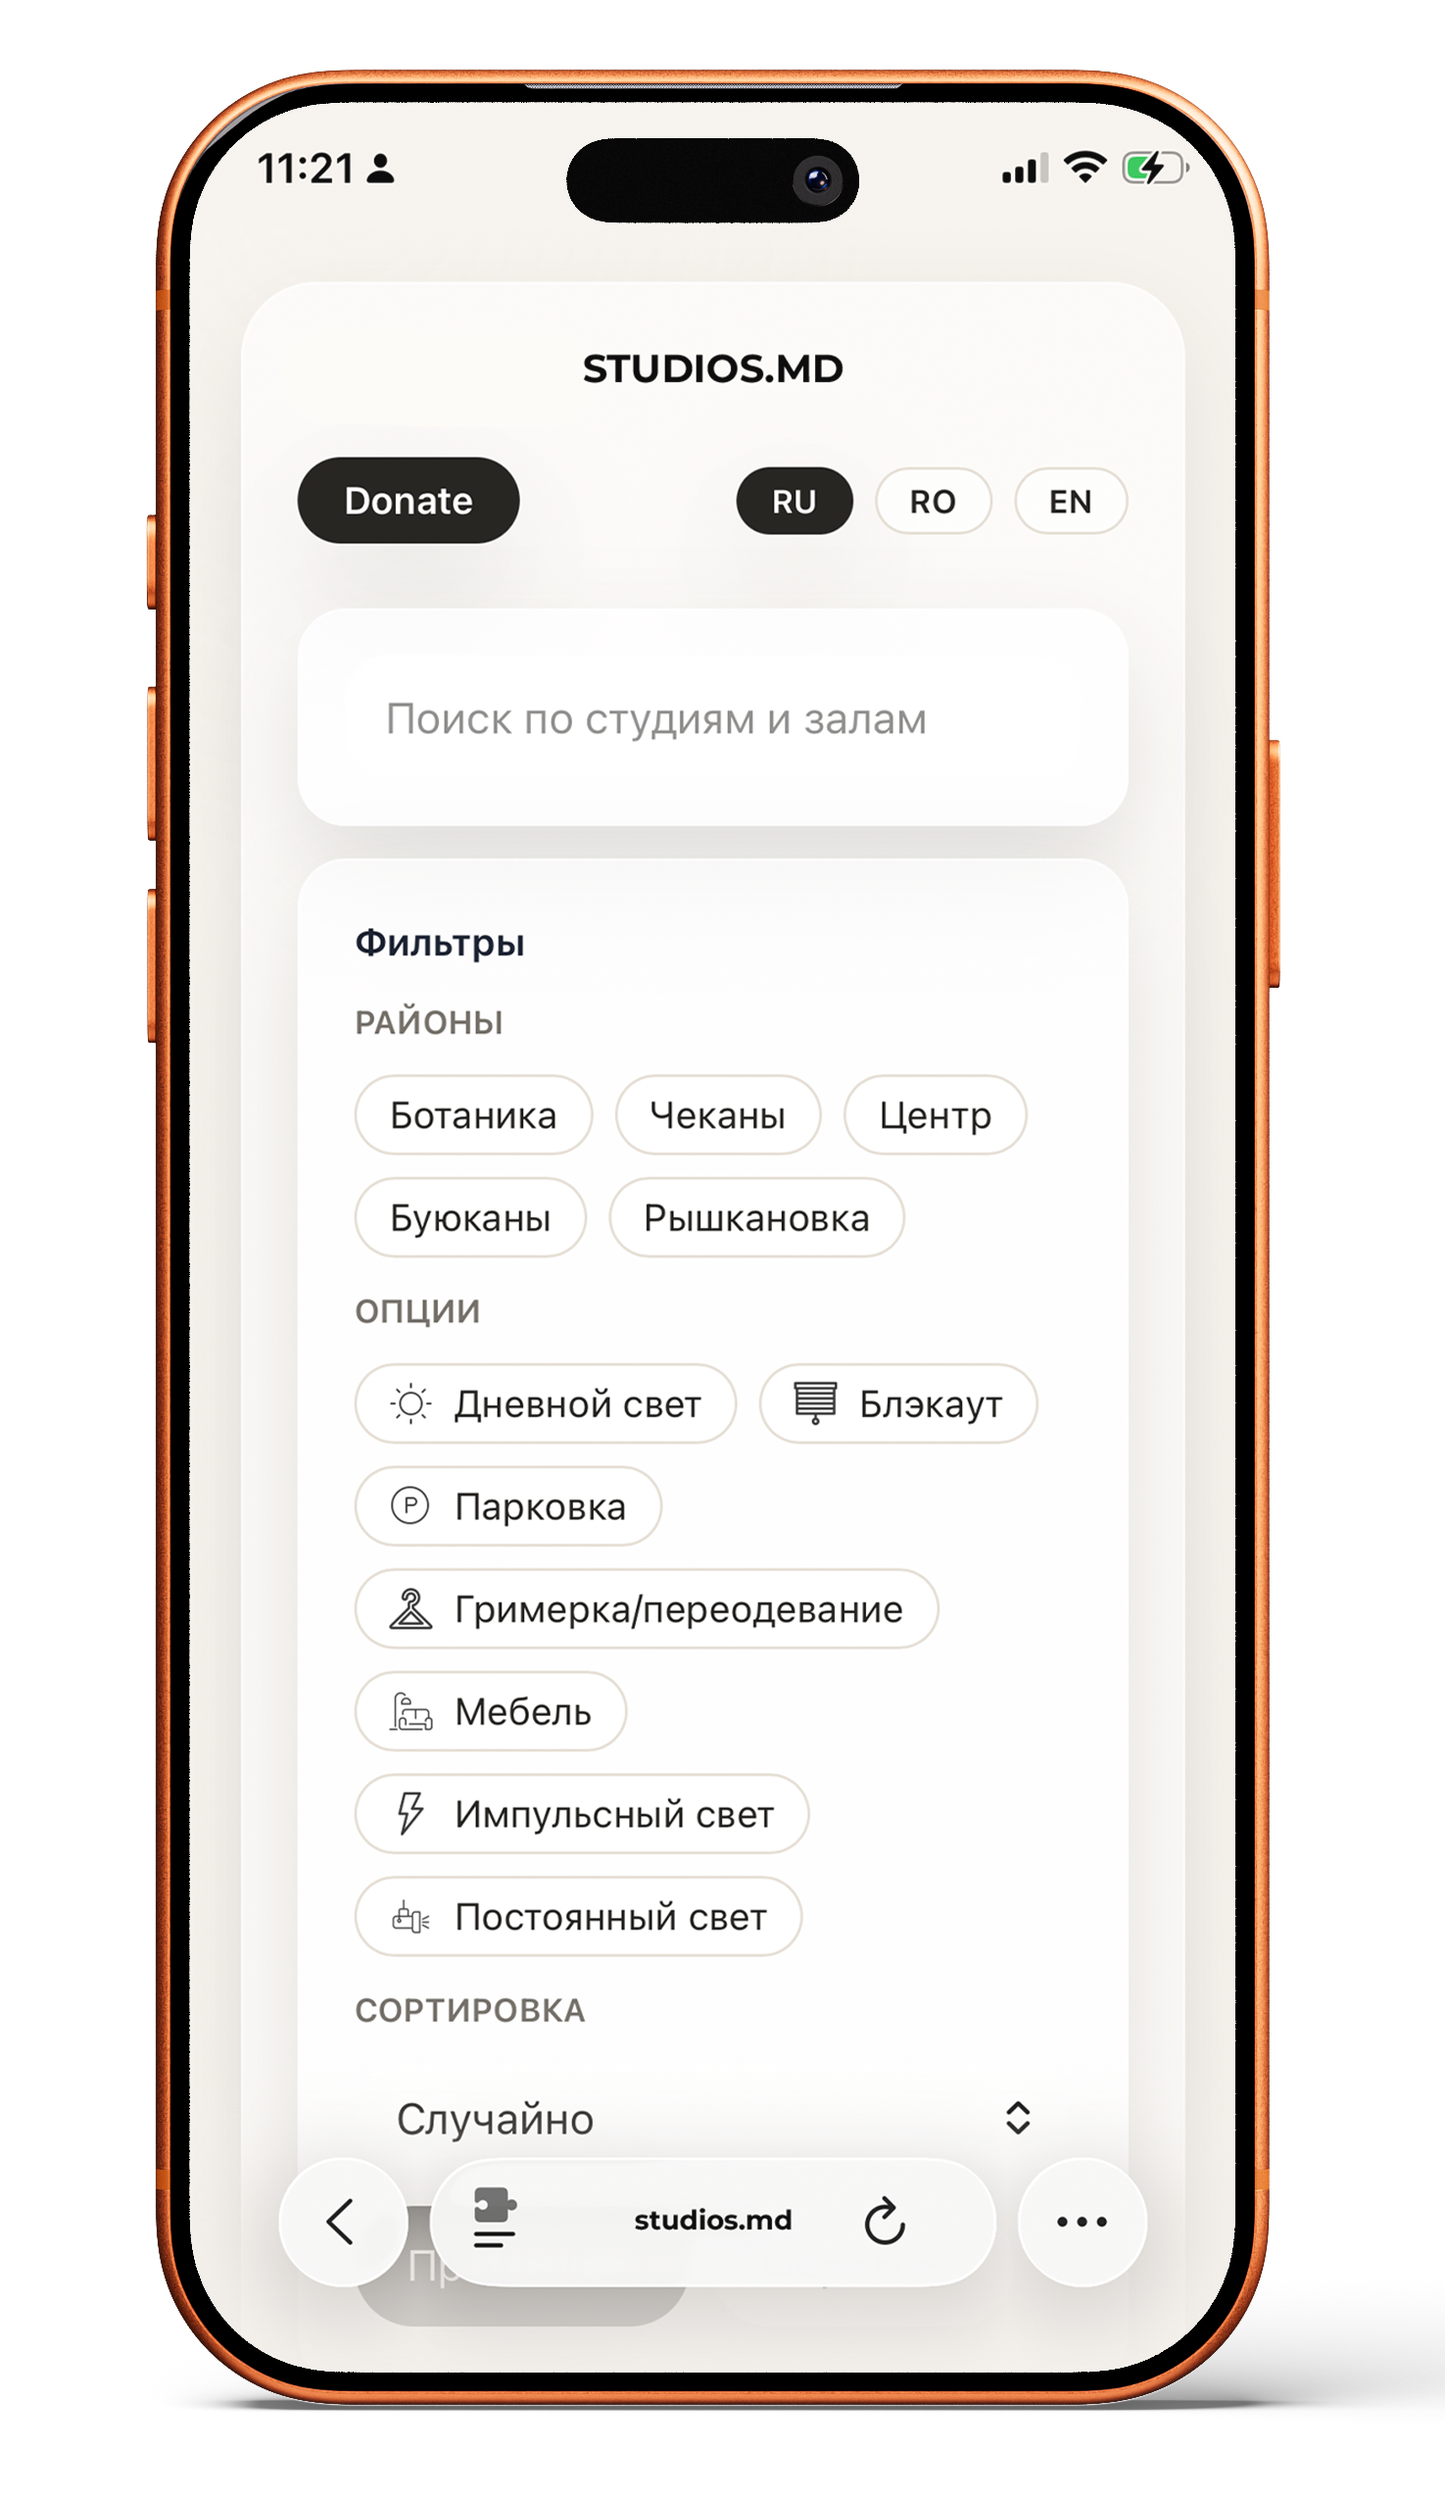
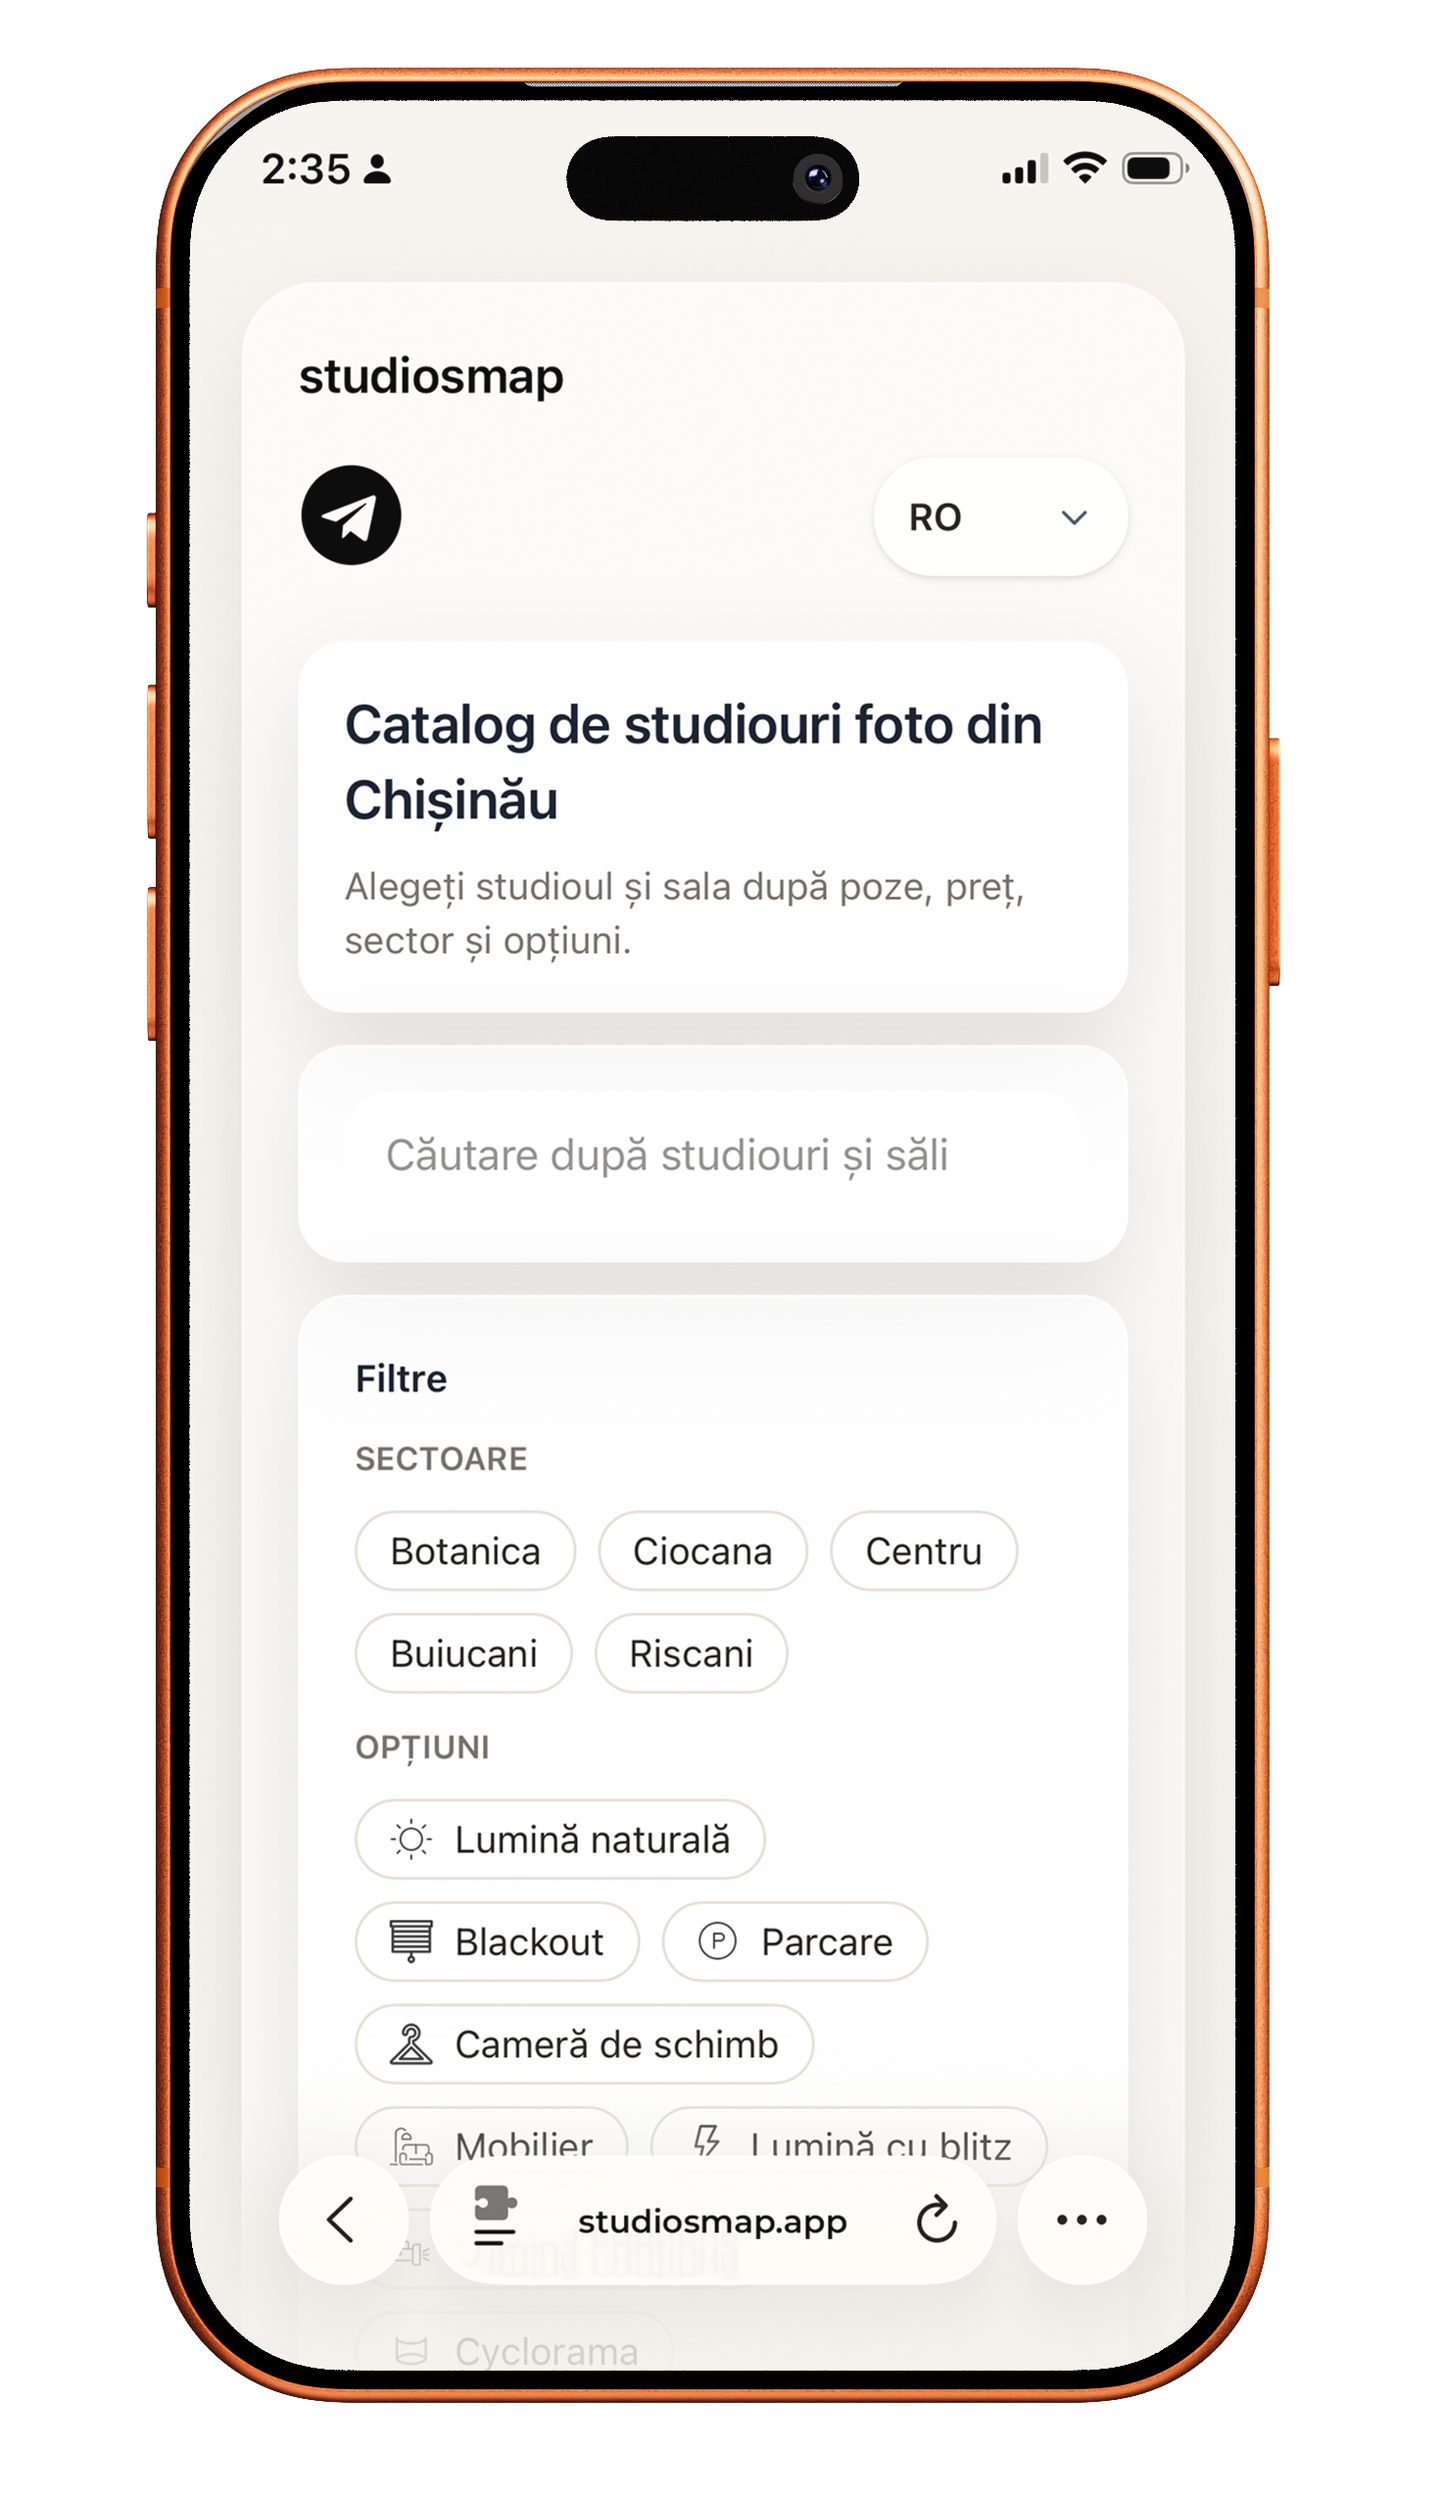
day? chore: changed social preview image + bg image at hero page

diff --git a/src/app/og-image/route.tsx b/src/app/og-image/route.tsx
@@ -45,7 +45,7 @@ export async function GET() {
               opacity: 0.9,
             }}
           >
-            studiosmap.co
+            studiosmap.app
           </div>
         </div>
 
